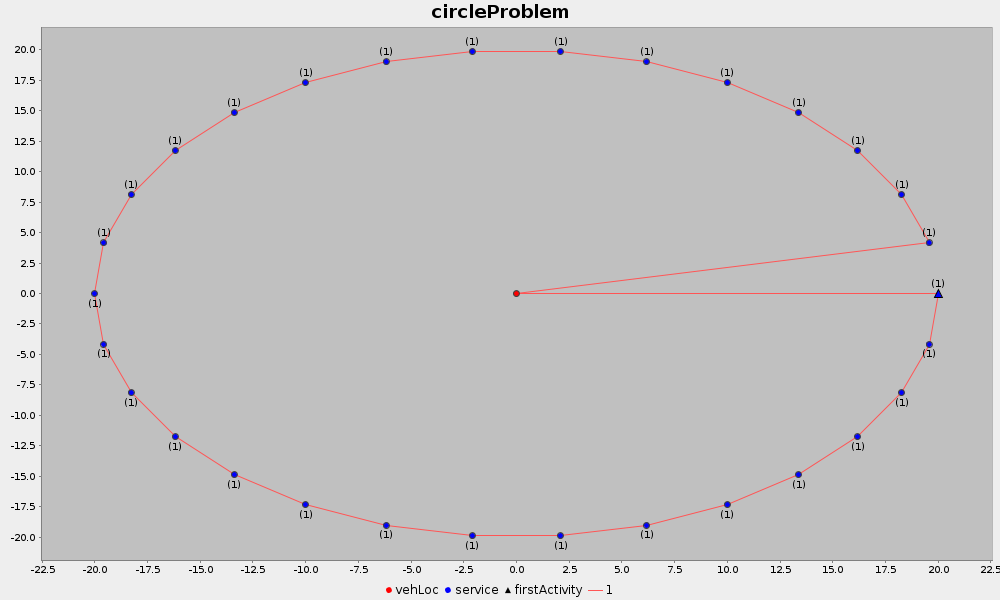
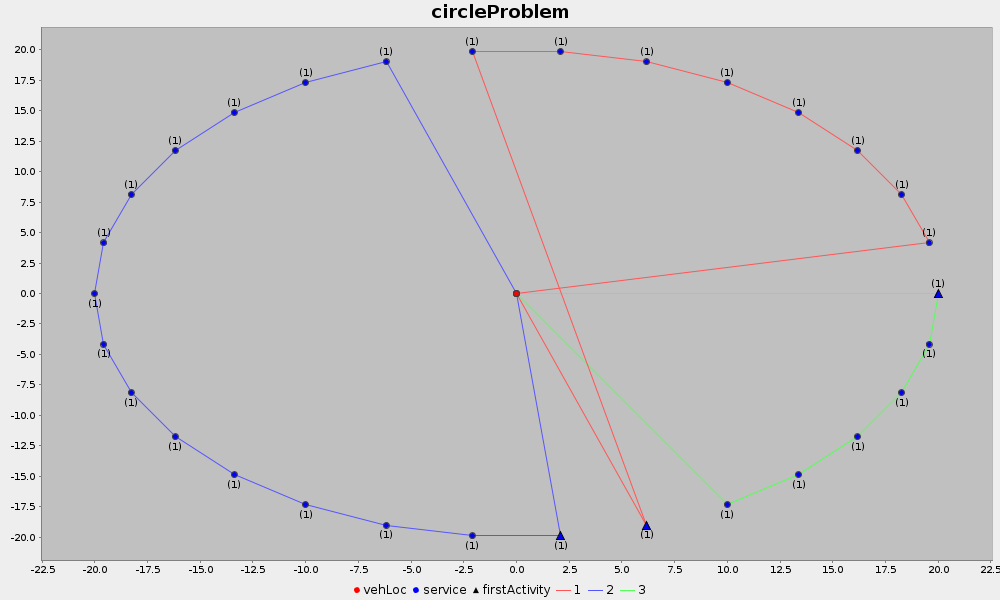
multi-vehicle case

diff --git a/jsprit-examples/src/main/java/CopyOfAdditionalDistanceConstraintExample.java b/jsprit-examples/src/main/java/CopyOfAdditionalDistanceConstraintExample.java
@@ -206,7 +206,11 @@ public class CopyOfAdditionalDistanceConstraintExample {
 
 		VehicleType type = VehicleTypeImpl.Builder.newInstance("type").addCapacityDimension(0, 20000).setCostPerDistance(1).setCostPerTime(0).build();
 		VehicleImpl vehicle = VehicleImpl.Builder.newInstance("vehicle").setStartLocationId("0").setStartLocationCoordinate(Coordinate.newInstance(0,0)).setType(type).build();
-        int N_TARGET = 30	; // 30 nodes plus starting point
+		VehicleImpl vehicle2 = VehicleImpl.Builder.newInstance("vehicle2").setStartLocationId("0").setStartLocationCoordinate(Coordinate.newInstance(0,0)).setType(type).build();
+		VehicleImpl vehicle3 = VehicleImpl.Builder.newInstance("vehicle3").setStartLocationId("0").setStartLocationCoordinate(Coordinate.newInstance(0,0)).setType(type).build();
+		VehicleImpl vehicle4 = VehicleImpl.Builder.newInstance("vehicle4").setStartLocationId("0").setStartLocationCoordinate(Coordinate.newInstance(0,0)).setType(type).build();
+
+		int N_TARGET = 30	; // 30 nodes plus starting point
         Service [] services = new Service[N_TARGET];
         List<Coordinate> coords = createCoordinates(0,0, 20, N_TARGET );
 
@@ -239,7 +243,7 @@ public class CopyOfAdditionalDistanceConstraintExample {
 		 */
 		//define a matrix-builder building a symmetric matrix
         VehicleRoutingTransportCostsMatrix.Builder costMatrixBuilder = VehicleRoutingTransportCostsMatrix.Builder.newInstance(false);
-        double BIG = 509990009;// Double.MAX_VALUE;
+        double BIG = 50900999;// Double.MAX_VALUE;
         double NOGO = BIG;
         double OK_COST= 100;
         double [][] matrix = new double[N_TARGET+1][N_TARGET+1];
@@ -247,28 +251,22 @@ public class CopyOfAdditionalDistanceConstraintExample {
         	for(int j=0;j<=N_TARGET;j++)
         		if (i == j)
         			matrix[i][j] = 0;
-        		else if (i==0 || j==0 || i==25 )
-        			matrix[i][j] = NOGO;
+        		else if (i==0 || j==0 )
+        			matrix[i][j] = 200;
         		else
         			matrix[i][j] =  BIG;
         
         
         for(int i=0;i<=N_TARGET;i++) {
         	matrix[i][(i+1)%(N_TARGET+1)] = OK_COST;
-//        	matrix[i][(i-1 + N_TARGET+1)%(N_TARGET+1)] = OK_COST;
         }
         
-
-        // provide a direct shortcut from 7 to 23
         matrix[7][23] = 1;//OK_COST;
+        matrix[7][8] = 400;
+        matrix[22][23] = 400;
         
-        // since this is a tour, I have let the algorithm account for 8--22, so going from 30 to 8, then from 8 to 22, then to 0
-        matrix[30][8] = OK_COST;
-        matrix[22][0] = OK_COST;
 
-        // many times the algorithm fails to find the shortest path, so I give it more hint to make the "traditional route" 30-->0 impossible
-        matrix[30][0] = 100000;
-
+         
 
 
         for(int i=0;i<=N_TARGET;i++)
@@ -285,8 +283,12 @@ public class CopyOfAdditionalDistanceConstraintExample {
 		
         VehicleRoutingTransportCostsMatrix costMatrix = costMatrixBuilder.build() ;
 
-        VehicleRoutingProblem.Builder builder = VehicleRoutingProblem.Builder.newInstance().setFleetSize(FleetSize.FINITE/*FleetSize.INFINITE*/).setRoutingCost(costMatrix)
-		.addVehicle(vehicle);
+        VehicleRoutingProblem.Builder builder = VehicleRoutingProblem.Builder.newInstance().setFleetSize(FleetSize.INFINITE/*FleetSize.INFINITE*/).setRoutingCost(costMatrix)
+		.addVehicle(vehicle)
+		.addVehicle(vehicle2)
+		.addVehicle(vehicle3)
+		.addVehicle(vehicle4)
+		;
         for(int i=0;i<N_TARGET;i++)
         	builder.addJob(services[i]);
 		VehicleRoutingProblem vrp = builder.build();
@@ -295,7 +297,7 @@ public class CopyOfAdditionalDistanceConstraintExample {
         eventsRecorder.setRecordingRange(0,50);
 
         
-        VehicleRoutingAlgorithmBuilder vraBuilder = new VehicleRoutingAlgorithmBuilder(vrp, "input/algorithmConfig_fix_schrimpf.xml");
+        VehicleRoutingAlgorithmBuilder vraBuilder = new VehicleRoutingAlgorithmBuilder(vrp, "input/algorithmConfig_greedyWithRegret.xml");
 
 //        StateManager stateManager = new StateManager(vrp.getTransportCosts());  //v1.3.1
         StateManager stateManager = new StateManager(vrp); //head of development - upcoming release (v1.4)
@@ -322,7 +324,7 @@ public class CopyOfAdditionalDistanceConstraintExample {
 //		VehicleRoutingAlgorithm vra = VehicleRoutingAlgorithms.readAndCreateAlgorithm(vrp, "input/fastAlgo.xml");
 
 //        vra.setNuOfIterations(250); //v1.3.1
-        vra.setMaxIterations(2500); //head of development - upcoming release (v1.4)
+        vra.setMaxIterations(250); //head of development - upcoming release (v1.4)
         vra.addListener(eventsRecorder);
 
         Collection<VehicleRoutingProblemSolution> solutions = vra.searchSolutions();
